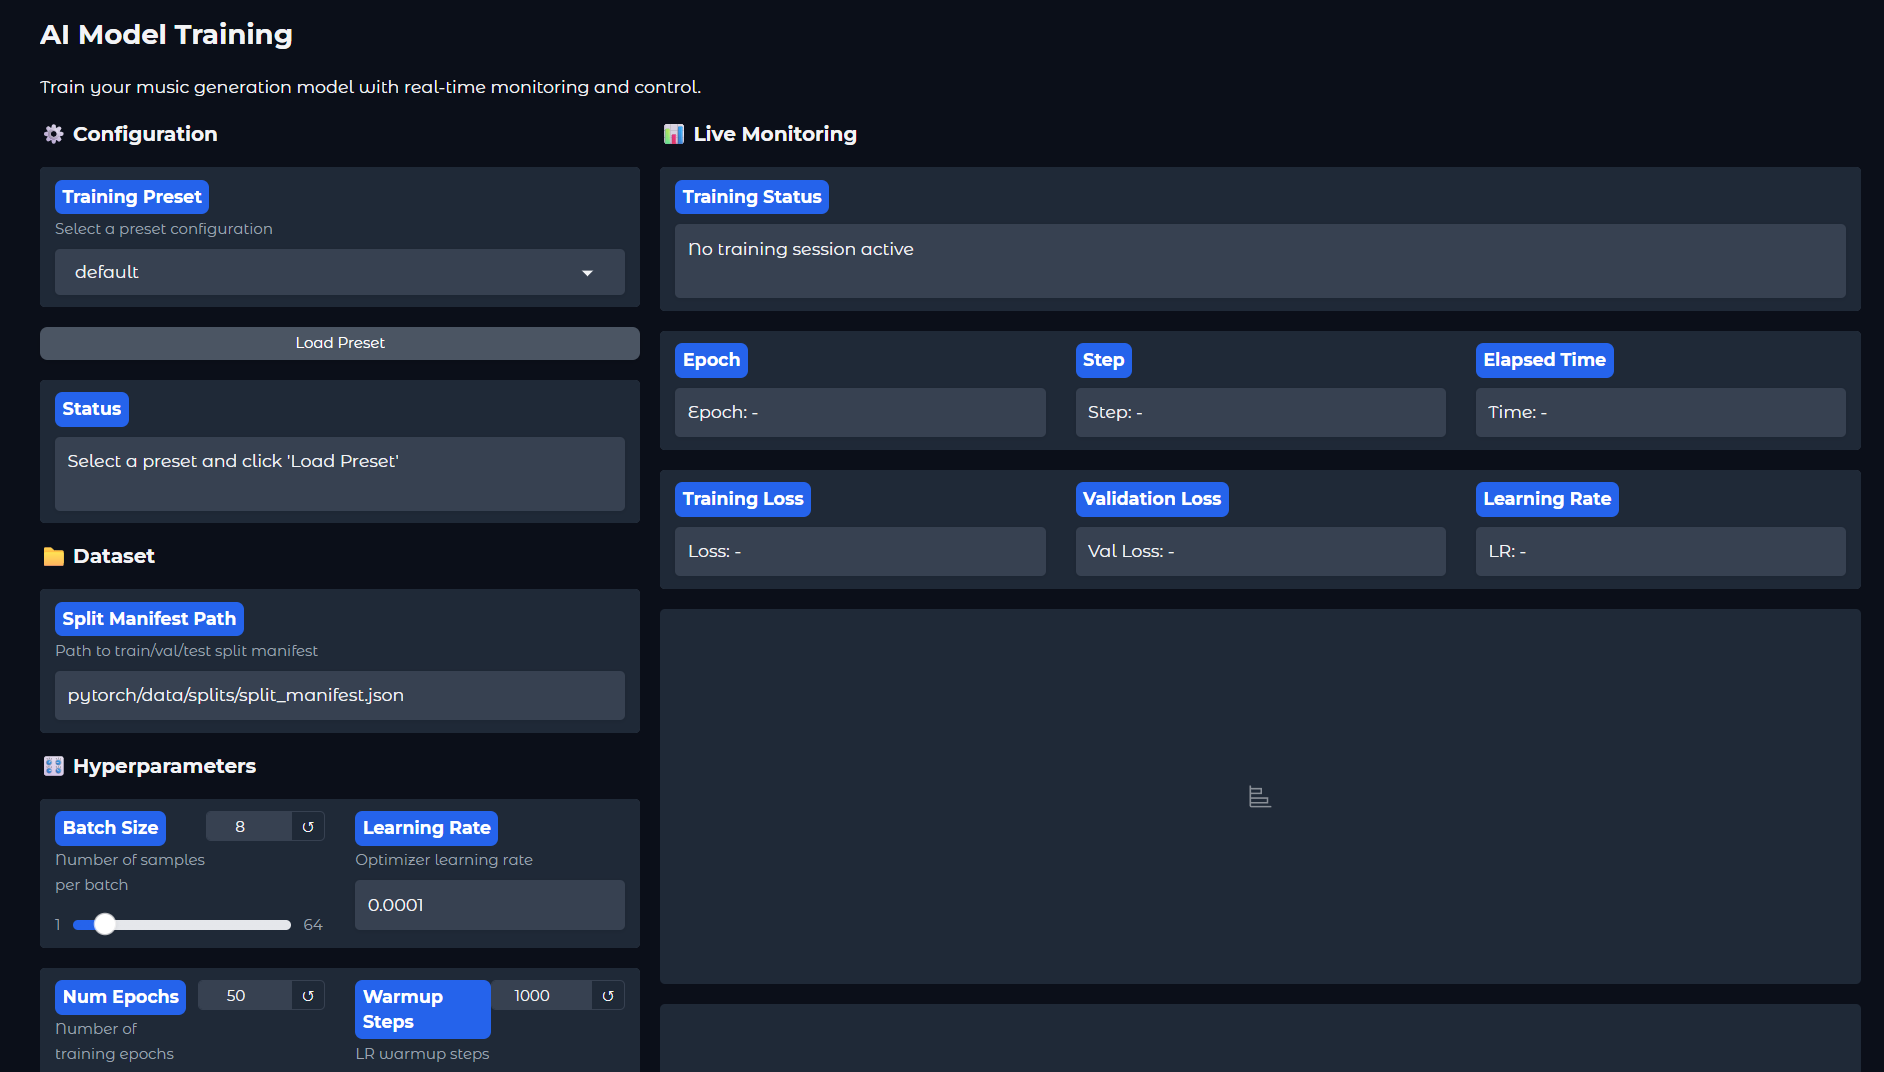
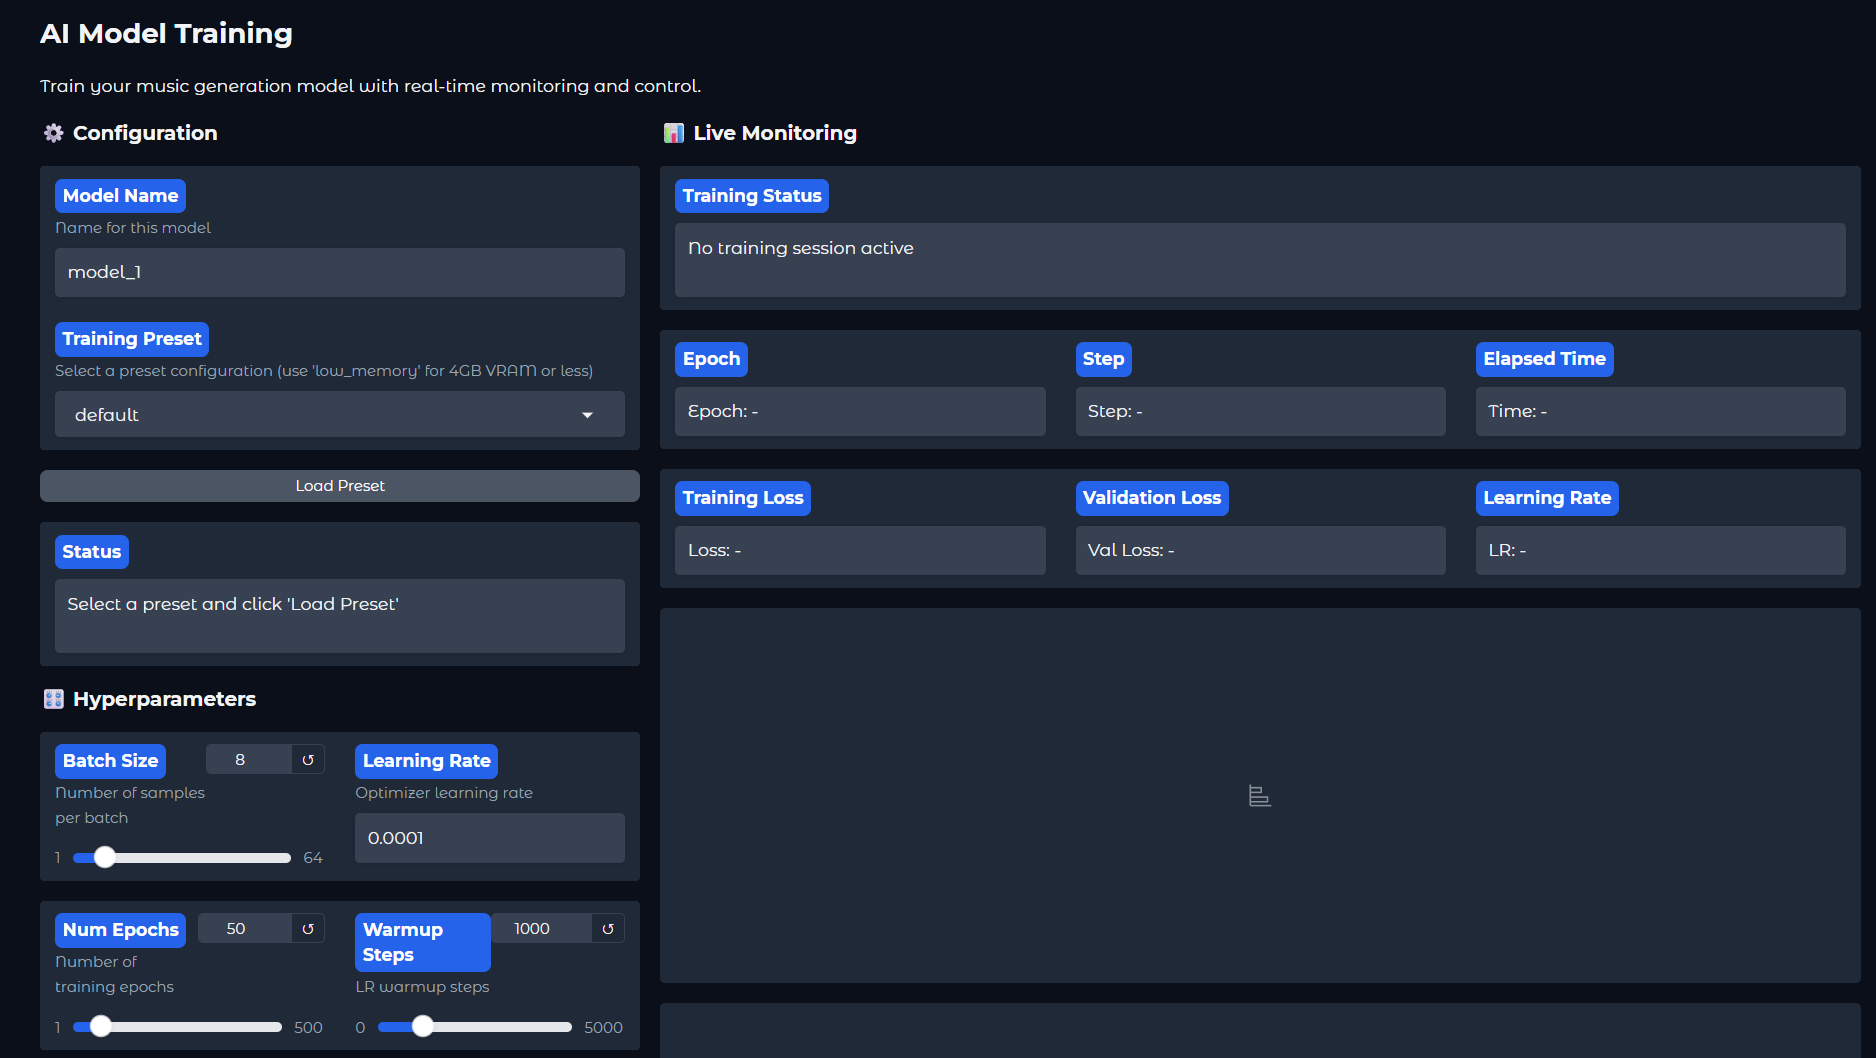
Update README
Rewrite certain sections and update to new features, as well as add new images

Changed region(s): [[0.0, 0.0, 1.0, 1.0]]

diff --git a/README.md b/README.md
@@ -6,7 +6,7 @@ This AI is supposed to take MIDI files in their most basic structure, being a mo
 
 ![Image showcasing the basic melody and chord track structure detailed above](assets/partiture_sample.png "Screenshot from Guitar Pro")
 
-This structure will make sure the AI learns the basic structure of songs (chords and melody), allowing it to train on the core aspects parts of your song dataset, after this, you can manually add more production (chord rhythmic variations, more instruments, bass, etc) to your own liking.
+This structure will make sure the AI learns the basic structure of songs (chords and melody), allowing it to train on the core aspects parts of your song dataset, after this, you can manually add more production (chord rhythmic variations, more instruments, bass, etc) to the generated files.
 
 ### How does the AI Identify Tracks In My Dataset?
 
@@ -14,116 +14,137 @@ The AI uses a 3-layered system to automatically identify melody and chord tracks
 
 1. **Track Name Recognition**: Detects keywords like "melody", "lead", "solo", "voice" for melodies, and "chord", "accomp", "harmony", "pad" for chords (supports multiple languages)
 
-2. **Polyphony Analysis** (Primary Method):
+2. **Polyphony Analysis**:
    - **Melody tracks**: Monophonic or light polyphony (≤2 notes playing simultaneously)
    - **Chord tracks**: High polyphony (≥3 notes playing simultaneously)
 
 3. **Instrument Analysis**: Uses MIDI program numbers and channel information
 
-The system uses all three methods for accurate classification. This means you can name your tracks in your preferred language, or let the AI analyze the musical content automatically.
+The system uses all three methods for accurate classification. This means you can name your tracks in your preferred language, or let the project analyze the musical content automatically.
 
 ### Note Range and Constraints
 
-- **Bass Track Removal**: Tracks with more than 35% of notes below C2 (MIDI note 36) are automatically removed during preprocessing.
-- **Training Pitch Range**: C2 to C6 (MIDI notes 36-84) - optimized for vocal and guitar melodies
-- This range covers most melodic and harmonic content while filtering out bass-heavy material 
+- **Bass Track Removal**: Tracks with more than 35% of notes below C2 (MIDI note 36) should be manually removed during preprocessing.
+- **Training Pitch Range**: C2 to C6 (MIDI notes 36-84) - optimized for vocal and guitar/piano melodies
+- This range covers most melodic and harmonic content while filtering out bass-heavy material.
 
 ## Installation
 
-First, make sure you have at least python 3.10 installed, you can check your version by executing this in your console:
+### Prerequisites
 
-```
+Ensure you have Python 3.10 or newer installed. Verify your version:
+
+```bash
 python -V
 ```
 
-I recommend using python 3.10.8 as this is the version i had installed when developing the project, but all newer versions of python should work.
+**Note**: This project was developed with Python 3.10.8, though all newer versions should be compatible.
 
----
+### Repository Setup
 
-Then, clone the repo either downloading the zip from Github or by cloning using git (recommended):
+Clone the repository using Git (recommended):
 
-```
+```bash
 git clone https://github.com/AlanElPlatano/Orpheus.git
 ```
 
----
+Alternatively, you can download the ZIP archive from the GitHub repo.
 
-Then, we have to create a python virtual environment to handle all the libraries used (strongly recommended), for this make sure you have your VSCode console on the root of your project and type:
-```
+### Virtual Environment Configuration
+
+Create an isolated Python environment (strongly recommended):
+
+```bash
 python -m venv my_venv
 ```
-Where 'my_venv' is the name of your virtual environment, you can use whatever name you want. This will create a folder with that same name on your project root. Now we have to activate it with the following command:
-```
+
+Replace `my_venv` with your preferred environment name. This creates a dedicated folder in your project root.
+
+Activate the environment:
+
+```bash
 {name_of_your_venv}/Scripts/Activate.ps1
 ```
 
-This will make the 'venv' activate, you can know this worked because a prefix with the name of the virtual environment like (venv) or (my_venv) will show up before every command in your console.
+A `(my_venv)` prefix in your terminal (or whatever name you chose) confirms successful activation.
 
----
+### PyTorch Installation
 
-Now we have to install the libraries. First, PyTorch (the library that allows our AI to work) requires special installation steps depending on your hardware.
+PyTorch requires a specific installation depending on your hardware configuration.
 
-#### For NVIDIA GPU Users (Recommended for faster training)
+#### NVIDIA GPU (Best)
 
-If you have an NVIDIA graphics card with CUDA support:
+For systems with NVIDIA GPUs with CUDA support:
 
-```
+```bash
 pip install torch torchvision torchaudio --index-url https://download.pytorch.org/whl/cu118
 ```
 
-This installs PyTorch with CUDA 11.8 support for GPU acceleration. **Note:** This will download approximately 3GB, so be patient.
+This installs PyTorch with CUDA 11.8 support for GPU acceleration.  
+**Size**: Approximately 2.8GB so be patient during download.
 
-#### For CPU-Only Systems (AMD GPUs, Intel, or no dedicated GPU)
+#### CPU-Only Systems
 
-If you don't have an NVIDIA GPU or want CPU-only installation:
+For AMD GPUs, Intel processors, or systems without dedicated graphics:
 
-```
+```bash
 pip install torch torchvision torchaudio --index-url https://download.pytorch.org/whl/cpu
 ```
 
-**Note:** CPU training will be significantly slower but fully functional.
+**Performance Note**: CPU training is significantly slower but fully functional.
 
-#### For Other CUDA Versions
+#### Custom CUDA Versions
 
-If you have a different CUDA version installed, check the [PyTorch website](https://pytorch.org/get-started/locally/) to get the correct installation command for your system.
+For different CUDA installations, consult the [PyTorch installation guide](https://pytorch.org/get-started/locally/) for your specific configuration.
 
----
+### Remaining Dependencies
 
-After installing PyTorch, install the remaining dependencies:
+Install all additional required libraries:
 
-```
+```bash
 pip install -r requirements.txt
 ```
 
 This will install all other required libraries (Gradio, Pretty MIDI, MidiTok, etc.). This may take a few minutes, but this should be a much faster download than PyTorch.
 
+---
 
 ## Usage
 
-First, copy all of your files into the 'source_midis' folder on the root of the project, here is where the processing will start. Then, open the gradio GUI by activating the following command (remember to have your venv activated):
-```
+First, copy all of your source MIDI files into the 'source_midis' folder on the root of the project, here is where the processing will start.
+
+Then, open the gradio GUI by activating the following command (remember to have your virtual environment activated):
+```bash
 python -m gui.gradio_app
 ```
 
-After about 10 seconds, you will see a message like this one on the console:
+After about 10-15 seconds, you will see a message like this one on the console:
 ```
 * Running on local URL:  http://localhost:42069
 * To create a public link, set `share=True` in `launch()`.
 ```
 
-With this, we have our GUI ready, you can open any browser (Chrome, Edge, Firefox, Opera, etc) and go to 'http://localhost:42069', here you will see the Gradio GUI:
+Now you can open any browser and go to 'http://localhost:42069', here you will see the Gradio GUI:
 
 ![Screenshot of the Preprocess tab of the Gradio GUI](assets/preprocess_gui.png "Browser screenshot")
 
-The GUI is comprised of several tabs that each pertain to a specific step in our AI pipeline. The first one we see is the 'Preprocess' tab.
+The preprocessing stage prepares your MIDI files for optimal training performance.
 
-In this tab we have several optional tools to preprocess the files we placed in our 'source_midis' folder. Before we permanently modify our MIDIs, on the top of the left column we have 'Backup & Recovery', which can backup our MIDIs before the preprocessor touches them, as well as recovering them. You can use this option if you want to experiment with your MIDIs before moving on to the next tab. 
+### Backup & Recovery
 
-In the middle column we have the preprocessing options themselves:
-- A quantization to align notes to the grid (recommended)
-- General note cleanup
-- Empty track cleanup
-- Remove tracks with bass content (if more than 35% of notes are below the threshold, the entire track is removed)
+Located in the left column, this backup system allows you to:
+- Create backups before modification
+- Restore original files if needed
+- Experiment with preprocessing parameters risk-free
+
+### Preprocessing Operations
+
+The center column offers several refinement tools:
+
+- **Quantization**: Aligns notes to the grid for rhythmic consistency (recommended)
+- **Note Cleanup**: Removes artifacts and corrects common MIDI issues
+- **Track Cleanup**: Eliminates empty or redundant tracks
+- **Bass Filtering**: Removes tracks where >35% of notes fall below the threshold
 
 On the right we have the Process button and a status log for additional clarity. The processed files will overwrite the original ones, hence why the backup function is provided.
 
@@ -133,13 +154,9 @@ On the right we have the Process button and a status log for additional clarity.
 
 ![Screenshot of the MIDI Parser tab of the Gradio GUI](assets/midi_parser.png "Browser screenshot")
 
-Our AI cannot understand MIDI files because they're binaries, so this tab processes them into a JSON format which is easier to understand. Here we only have 2 settings:
+Our AI cannot understand MIDI files because they're binary files, so this tab processes them into a JSON format which is easier to understand.
 
-- Simple/Advanced Mode: it determines the way that the parsing is done, by now only the simple mode is supported for future steps so don't parse your files with Advanced mode (development pending).
-
-- Compress JSON, this option is only meant if you plan to use the parsed JSONs for something other than this AI (like sharing them or storing them). If you are going to use them for training leave this option unchecked
-
-On the bottom we get the basic buttons to start the process and cancel it. When you finish parsing, you will see a log on screen like this one:
+On the bottom of the pagewe get the basic buttons to start the process and cancel it. When you finish parsing, you will see a log on screen like this one:
 
 ![Console screenshot of the MIDI Parser after processing the entire folder](assets/parser_console.png "Console screenshot")
 
@@ -151,11 +168,22 @@ On the bottom we get the basic buttons to start the process and cancel it. When 
 
 ![Screenshot of the Augmentation tab](assets/augmentation_tab.png "Augmentation tab")
 
-This is a very special tab, it takes every parsed file and transposes it into all 12 keys, by creating duplicates of each song from -6 semitones to +5 semitones (files are not tranposed from minor to major keys and viceversa), we do this to accomplish 2 things:
+This tab is critical because it performs transposition to improve model generalization and perform data augmentation.
 
-- By having songs in all 12 keys, we make sure that the model learns scales (music theory) intrinsically, if your dataset favored certain keys, the generation quality for those keys would be better than for all the other keys. By exploding every file into all 12 keys, we make sure that every song is present in all pitches, which allows the AI to learn all 12 pitches.
+### Transposition Strategy
 
-- To have 12 times as much training dataset, although not as good as an ideal case where we have a huge training dataset in equally distributed files, it still helps us have more keys. The scripts have a way to avoid the model overfitting (memorizing instead of understading) on our data by splitting the dataset in 3 groups (training, testing, valoration) where all 12 versions of each song are always placed in the same group.
+The system creates 12 versions of each song by transposing from -6 to +5 semitones, maintaining modal integrity (major stays major, minor stays minor).
+
+### Benefits
+
+**1. Scale-Invariant Learning**  
+The model learns intrinsic musical patterns independent of key, preventing bias toward keys overrepresented in your original dataset.
+
+**2. Dataset Expansion**  
+Multiplies your training dataset by 12×, providing substantially more learning material while maintaining stylistic coherence.
+
+**3. Overfitting Prevention**  
+The augmentation system ensures all 12 transpositions of each song remain together in the same split (training/validation/test), preventing data leakage and artificial performance inflation.
 
 ---
 
@@ -165,20 +193,36 @@ This is a very special tab, it takes every parsed file and transposes it into al
 
 Here is one of the most important tabs in our project, here we will train our models and will be where we will spend most of our time.
 
-The GUI provides multiple parameters to train our AI, all the way from Batch Size, Learning Rate, Number of Epochs, Warmup Steps and even an Advanced Settings menu.
+First, on the top of the left column we get a model name field, as the name suggests this name will be used to name our model, you can leave the default name or use a custom name.
 
-For easier use, a preset menu is provided, where we have 4 options:
+### Training Presets
 
-- **default:** This is the default training option, in this preset we're making a full run of the training process with modest quality.
-- **quick_test:** This is a preset meant to verify that everything up to this point (data preparation, JSON parsing, etc) has worked correctly. This preset will only train once so you can use it before going to another option to verify everything works correctly.
-- **overfit:** This is a diagnostic preset that purposefully overfits on a small batch. While overfitting (memorizing instead of understanding) is normally undesired, this preset is useful to verify your AI pipeline is working correctly, if the model CAN'T memorize a small batch, something is broken in your code. Use this as a sanity check after making changes or when debugging training issues, this a feature for developers and not end users.
-- **production (recommended):** This is the best training preset, it will make a long training process that will take several hours to finish training and will produce a model ready for production. Make sure you have a decent dataset (several thousand files after augmentation) before using this preset
+**Default**  
+Balanced training run with standard quality. Good for general use case.
+
+**Quick Test** 
+Single-epoch validation run to verify your pipeline integrity before committing to longer training sessions.
+
+**Overfit** *(Diagnostic)*  
+Deliberately memorizes a small batch. While overfitting is typically undesirable, successful memorization confirms your training pipeline functions correctly. Very useful for debugging and sanity checks.
+
+- **production:** High-end preset, it will make a long training process with all features maxxed out BUT IT WILL CONSUME AN UNGODLY AMOUNT OF VRAM, make sure you have +16GB of VRAM before using this preset.
+
+- **low_memory:** This preset exists solely to replace the 'default' and 'production' presets for low memory systems like laptops (~4GB VRAM). Keep in mind that this preset will use a shorter context window and will most likely truncate training data.
 
 You can select a preset by opening the drop down menu and clicking 'Load Preset', this will replace all the options with the ones from the preset. Once you have everything ready, you can scroll down and click 'Start Training' which will start the process.
 
-**Important Note:** The first time you start training, the system will automatically split your augmented dataset into training (80%), validation (10%), and test (10%) sets. This ensures all 12 transpositions of each song stay together to prevent data leakage. You'll see a message confirming the split was generated before training begins.
+**Important Note:** When you start a training for the first time you will be prompted to optionally log in to 'Weights and Biases' (wandb):
 
-Unless you selected 'quick_test' this will start a process that will mostly take several hours to finish, for reference, my RTX 3060 took about 12 hours with the production preset and 3000 files.
+![Screenshot of the Training tab of the Gradio GUI](assets/wandb_login.png "Training Tab")
+
+Which is a simple web-based database that the project uses to submit statistics of all your training runs. I used it because i moved a lot between computers while working on the project so keeping track of training runs without having to manuall transfer log files was very useful.
+
+You can type "3" and "Enter if you don't need it.
+
+When you start training, the system will also automatically split your augmented dataset into training (80%), validation (10%), and test (10%) sets. This ensures all 12 transpositions of each song stay together to prevent data leakage.
+
+Unless you selected 'quick_test' this will start a process that will take several hours to finish, for reference, my RTX 3060 took about 12 hours with the production preset and 3000 files.
 
 #### Pause and Resume During Training
 
@@ -192,7 +236,7 @@ Because this process is very long, i have implemented a checkpoint system:
 
 ![Screenshot of the Training tab of the Gradio GUI, scrolled down to show the 'Checkpoint' options](assets/checkpoints_system.png "Checkpoints in the Training Tab")
 
-During training, checkpoints are automatically saved **every 2000 steps** (or every 50 steps for quick_test, 1000 for overfit). The system keeps the 5 most recent checkpoints and automatically deletes older ones to save disk space. Each checkpoint contains your model's current state, optimizer settings, and training progress.
+During training, checkpoints are automatically saved **every 2000 steps** (or every 50 steps for quick_test, 1000 for overfit). The system keeps the 5 most recent checkpoints and automatically deletes older ones to save disk space. Each checkpoint contains your model's current state, optimizer settings, and training progress, you can find each checkpoint in pytorch/checkpoints with a subfolder for every model you've trained.
 
 In this menu you can find several options, first we have a "Select Checkpoint" menu that lists all the current checkpoints, you can select one from the list and then click "Load Checkpoint", it doesn't show up on the list you can try the "Refresh List" button. Below it you can find a status windows along with another window that lists all the checkpoints in a non-interactive list, along with its own List and Refresh buttons.
 
